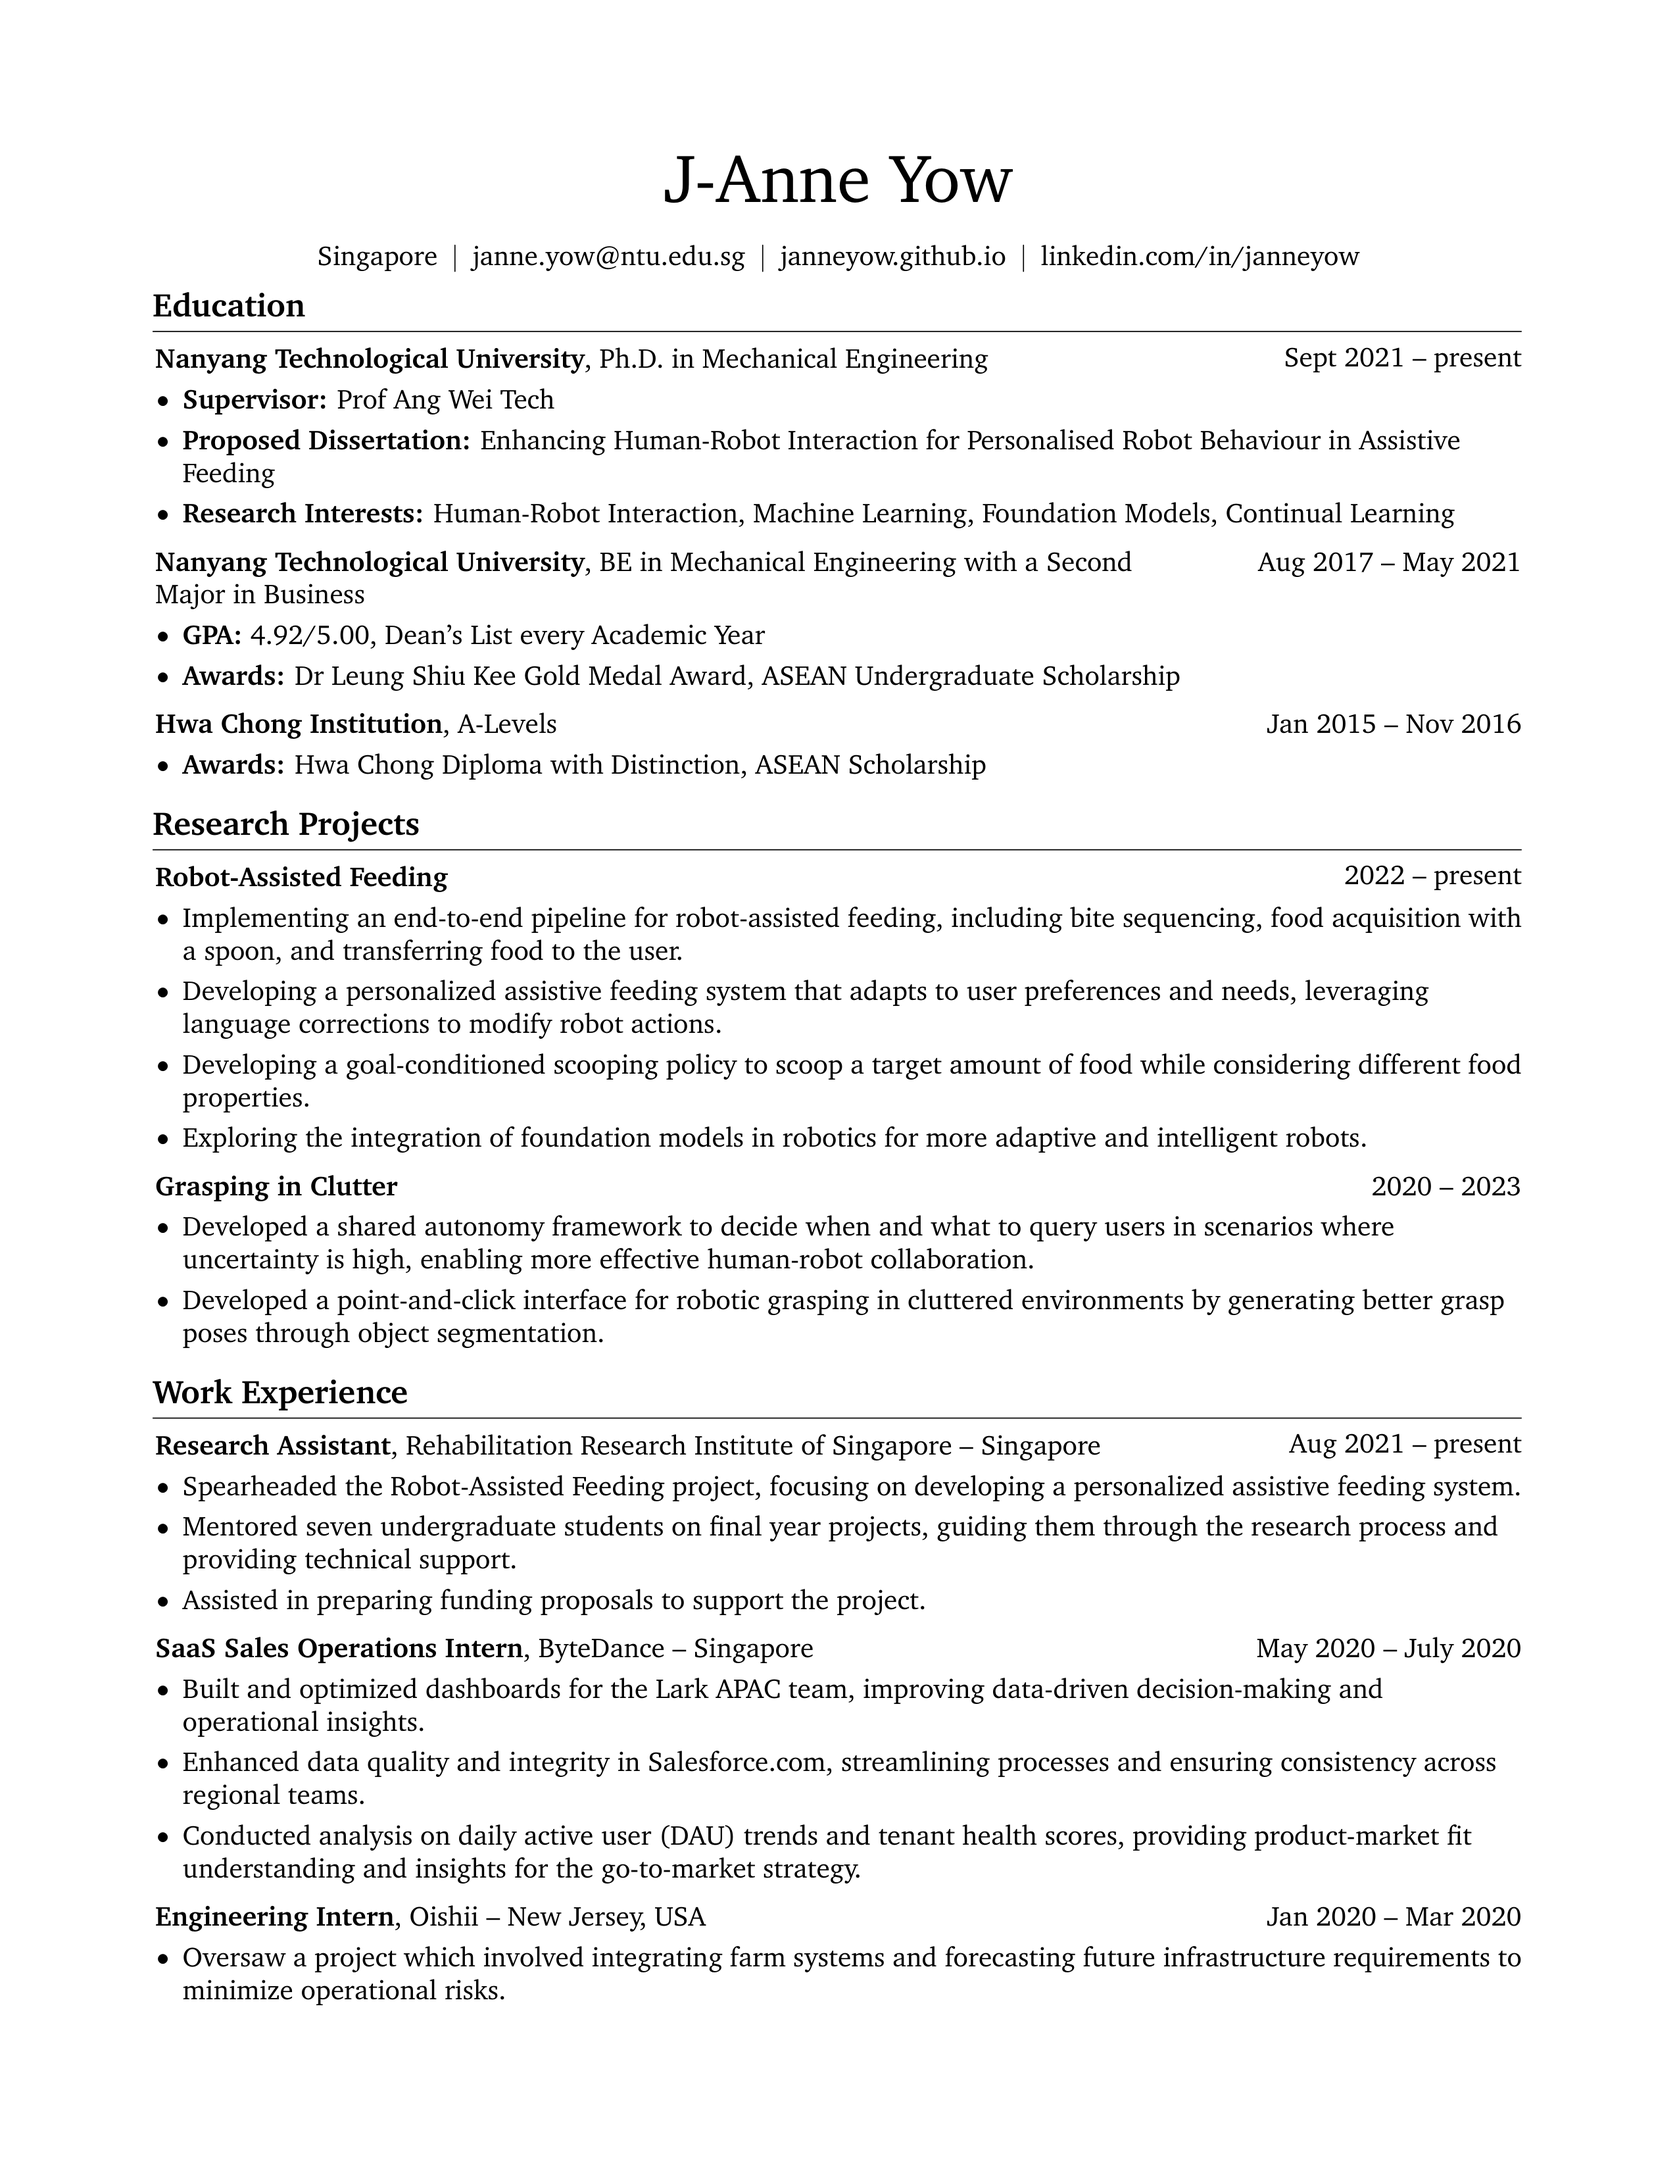
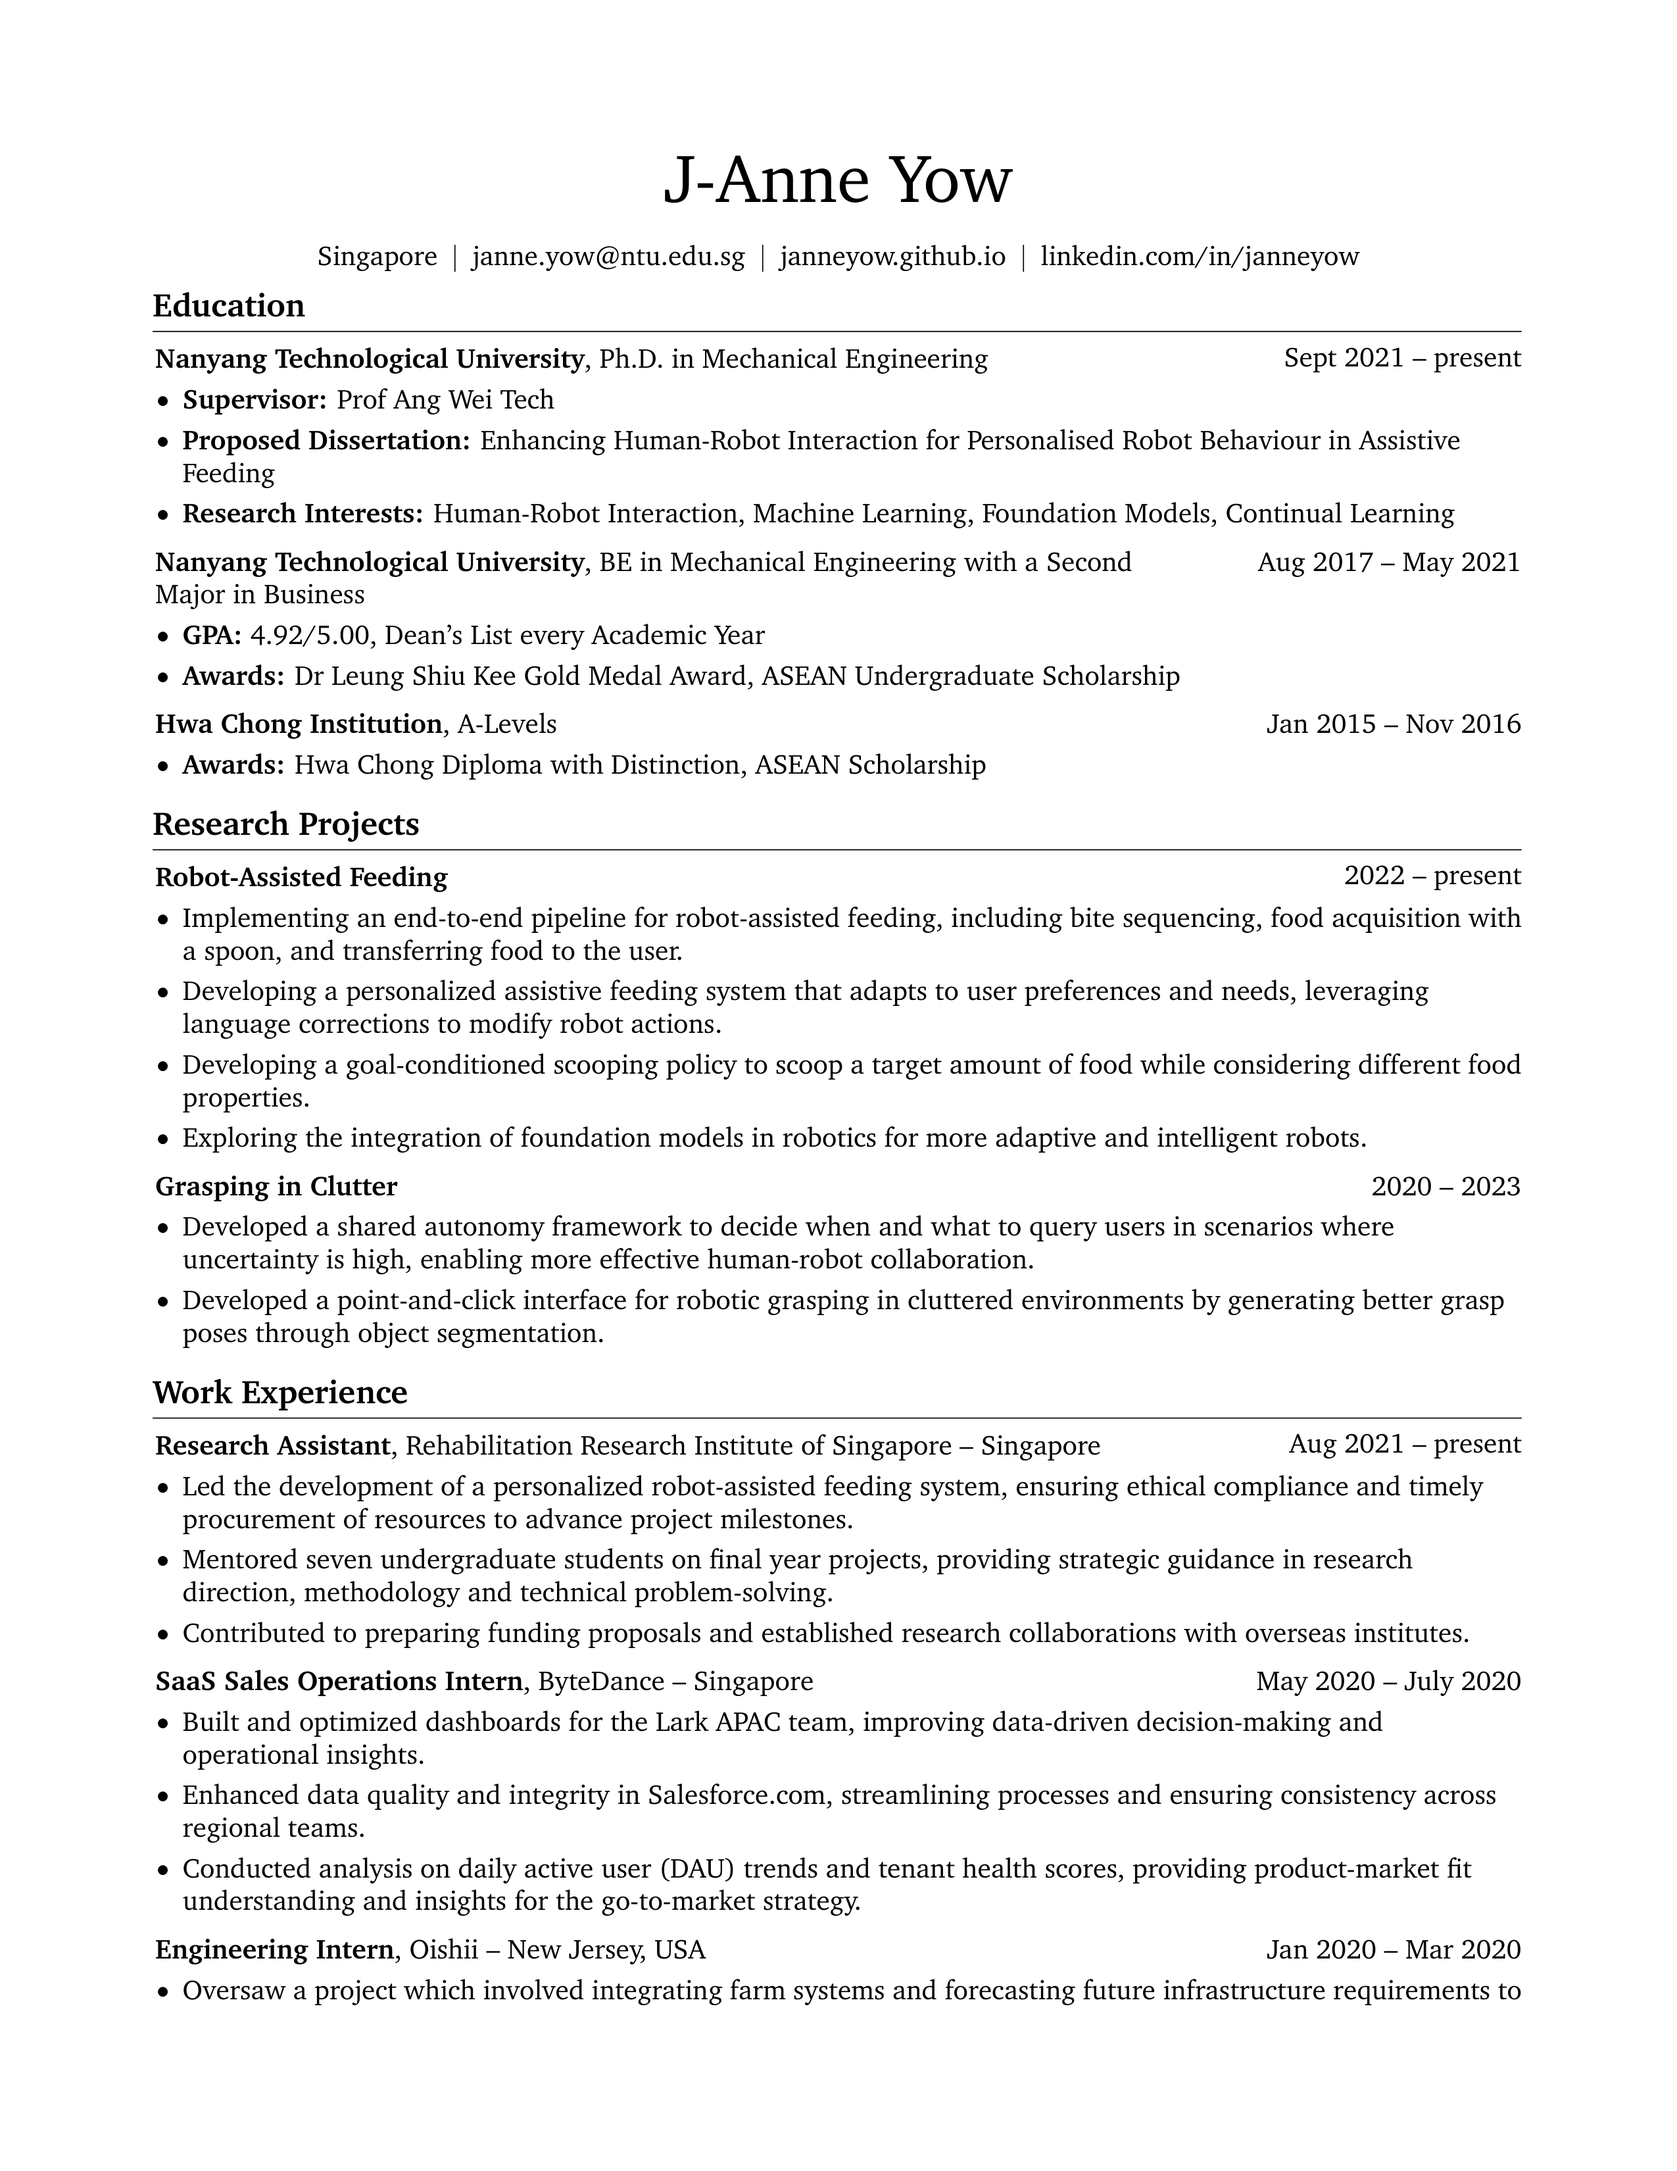
update cv

Changed region(s): [[0.0929, 0.6555, 0.8984, 0.9364]]

diff --git a/assets/cv/rendercv_output/J-Anne_Yow_CV.html b/assets/cv/rendercv_output/J-Anne_Yow_CV.html
@@ -77,9 +77,9 @@
         <ul>
         <li>Aug 2021 – present</li>
         <li>Singapore</li>
-        <li>Spearheaded the Robot-Assisted Feeding project, focusing on developing a personalized assistive feeding system.</li>
-        <li>Mentored seven undergraduate students on final year projects, guiding them through the research process and providing technical support.</li>
-        <li>Assisted in preparing funding proposals to support the project.</li>
+        <li>Led the development of a personalized robot-assisted feeding system, ensuring ethical compliance and timely procurement of resources to advance project milestones.</li>
+        <li>Mentored seven undergraduate students on final year projects, providing strategic guidance in research direction, methodology and technical problem-solving.</li>
+        <li>Contributed to preparing funding proposals and established research collaborations with overseas institutes.</li>
         </ul>
         <h2><a href="https://www.bytedance.com/en/">ByteDance</a>, SaaS Sales Operations Intern</h2>
         <ul>
@@ -111,7 +111,7 @@
         <li>IEEE Transactions on Robotics</li>
         </ul>
         <h1>Other Publications</h1>
-        <h2>Adaptive Scooping in Simulation for Assistive Feeding: Meeting User Preferences in Bite Size</h2>
+        <h2>Adaptive Scooping in Simulation for Assistive Feeding: Meeting User Preferences in Bite Size (Best Paper Award)</h2>
         <ul>
         <li>Oct 2024</li>
         <li><strong><em>J-Anne Yow</em></strong>, Neha P Garg, Wei Tech Ang</li>
@@ -119,7 +119,7 @@
         </ul>
         <h1>Service</h1>
         <ul>
-        <li>Reviewer: IEEE Robotics and Automation Letters</li>
+        <li>Reviewer: IEEE Robotics and Automation Letters (RAL), IEEE Internationl Conference on Robotics and Automation (ICRA)</li>
         </ul>
         <h1>Skills</h1>
         <ul>

diff --git a/assets/cv/rendercv_output/J-Anne_Yow_CV.tex b/assets/cv/rendercv_output/J-Anne_Yow_CV.tex
@@ -140,7 +140,7 @@
         \LenToUnit{\paperwidth-2 cm-0 cm+0.05cm},
         \LenToUnit{\paperheight-1.0 cm}
     ){\vtop{{\null}\makebox[0pt][c]{
-        \small\color{gray}\textit{Last updated in October 2024}\hspace{\widthof{Last updated in October 2024}}
+        \small\color{gray}\textit{Last updated in December 2024}\hspace{\widthof{Last updated in December 2024}}
     }}}%
   }%
 }%
@@ -288,9 +288,9 @@
         \vspace{0.10 cm}
         \begin{onecolentry}
             \begin{highlights}
-                \item Spearheaded the Robot-Assisted Feeding project, focusing on developing a personalized assistive feeding system.
-                \item Mentored seven undergraduate students on final year projects, guiding them through the research process and providing technical support.
-                \item Assisted in preparing funding proposals to support the project.
+                \item Led the development of a personalized robot-assisted feeding system, ensuring ethical compliance and timely procurement of resources to advance project milestones.
+                \item Mentored seven undergraduate students on final year projects, providing strategic guidance in research direction, methodology and technical problem-solving.
+                \item Contributed to preparing funding proposals and established research collaborations with overseas institutes.
             \end{highlights}
         \end{onecolentry}
 
@@ -383,7 +383,7 @@
             \begin{twocolentry}{
                 Oct 2024
             }
-                \textbf{Adaptive Scooping in Simulation for Assistive Feeding: Meeting User Preferences in Bite Size}
+                \textbf{Adaptive Scooping in Simulation for Assistive Feeding: Meeting User Preferences in Bite Size (Best Paper Award)}
             \end{twocolentry}
 
             \vspace{0.10 cm}
@@ -404,7 +404,7 @@
 
         
         \begin{onecolentry}
-            \textbf{Reviewer:} IEEE Robotics and Automation Letters
+            \textbf{Reviewer:} IEEE Robotics and Automation Letters (RAL), IEEE Internationl Conference on Robotics and Automation (ICRA)
         \end{onecolentry}
 
 

diff --git a/assets/cv/rendercv_output/J-Anne_Yow_CV.md b/assets/cv/rendercv_output/J-Anne_Yow_CV.md
@@ -48,9 +48,9 @@
 
 - Aug 2021 – present
 - Singapore
-- Spearheaded the Robot-Assisted Feeding project, focusing on developing a personalized assistive feeding system.
-- Mentored seven undergraduate students on final year projects, guiding them through the research process and providing technical support.
-- Assisted in preparing funding proposals to support the project.
+- Led the development of a personalized robot-assisted feeding system, ensuring ethical compliance and timely procurement of resources to advance project milestones.
+- Mentored seven undergraduate students on final year projects, providing strategic guidance in research direction, methodology and technical problem-solving.
+- Contributed to preparing funding proposals and established research collaborations with overseas institutes.
 
 ## [ByteDance](https://www.bytedance.com/en/), SaaS Sales Operations Intern
 
@@ -82,14 +82,14 @@
 
 # Other Publications
 
-## Adaptive Scooping in Simulation for Assistive Feeding: Meeting User Preferences in Bite Size 
+## Adaptive Scooping in Simulation for Assistive Feeding: Meeting User Preferences in Bite Size (Best Paper Award) 
 - Oct 2024
 - ***J-Anne Yow***, Neha P Garg, Wei Tech Ang
 - Workshop on Interactive Robots and AI for Healthcare, IEEE/RSJ International Conference on Intelligent Robots and Systems
 
 # Service
 
-- Reviewer: IEEE Robotics and Automation Letters
+- Reviewer: IEEE Robotics and Automation Letters (RAL), IEEE Internationl Conference on Robotics and Automation (ICRA)
 # Skills
 
 - Programming Languages: Python, C/C++, R, LaTeX, SQL
